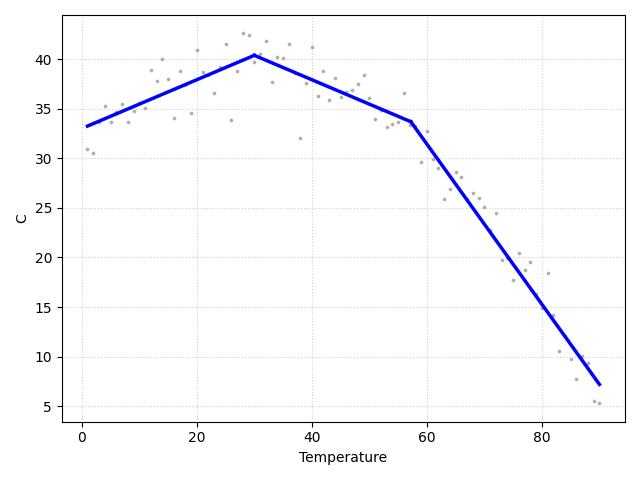
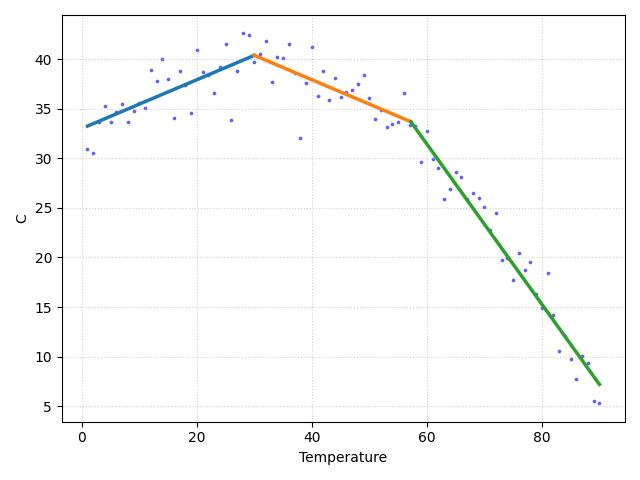
-

diff --git a/stat/stat_102_regchpt/bayes_usulu_parcali_regresyon.html b/stat/stat_102_regchpt/bayes_usulu_parcali_regresyon.html
@@ -592,7 +592,7 @@ y_{t}\sim\mathcal{N}(\hat{\mu}_{t},\hat{\sigma}_{t}^{2})
 \]</span></p>
 <p>ki <span class="math inline">\(y_t\)</span> formülü ile (1) içindeki
 <span class="math inline">\(P(D | \tau, \alpha, \beta,
-\sigma^2)\)</span> degerini hesaplamis oluyoruz, cunku <span
+\sigma^2)\)</span> değerini hesaplamış oluyoruz, çünkü <span
 class="math inline">\(y_t\)</span> verinin olurluğunu temsil ediyor.</p>
 <p>Devam edelim üstte görülen ağırlıklar <span
 class="math inline">\(w_1,w_2,w_3\)</span> birleşik formülün belli
@@ -734,14 +734,19 @@ class="math inline">\(\sigma_{M-1}(t) \approx 0 \Rightarrow w_M(t)
 class="math inline">\(\sigma_{M-1}(t) \approx 1 \Rightarrow w_M(t)
 \approx 1\)</span> (Tam Aktif)</p></li>
 </ul>
+<p>Farklar üzerinden tanımlı ağırlıkların nasıl işlediğini bir örnekte
+görelim. İki tane ayraç yeri tanımladık, <span
+class="math inline">\(\tau_1 = 10\)</span>, <span
+class="math inline">\(\tau_2 = 13\)</span>, ve şimdi <span
+class="math inline">\(w_2\)</span> ağırlığının (ki 10 ile 13 arasında
+aktif olacak şekilde tanımlı) nasıl davrandığına bakalım.</p>
 <div class="sourceCode" id="cb13"><pre
-class="sourceCode python"><code class="sourceCode python"><span id="cb13-1"><a href="#cb13-1" aria-hidden="true" tabindex="-1"></a>tau_1 <span class="op">=</span> <span class="fl">10.0</span></span>
-<span id="cb13-2"><a href="#cb13-2" aria-hidden="true" tabindex="-1"></a>tau_2 <span class="op">=</span> <span class="fl">13.0</span></span>
-<span id="cb13-3"><a href="#cb13-3" aria-hidden="true" tabindex="-1"></a><span class="cf">for</span> t <span class="kw">in</span> <span class="bu">range</span>(<span class="dv">20</span>):</span>
-<span id="cb13-4"><a href="#cb13-4" aria-hidden="true" tabindex="-1"></a>    sig1 <span class="op">=</span> sigmoid(t, tau_1)</span>
-<span id="cb13-5"><a href="#cb13-5" aria-hidden="true" tabindex="-1"></a>    sig2 <span class="op">=</span> sigmoid(t, tau_2)</span>
-<span id="cb13-6"><a href="#cb13-6" aria-hidden="true" tabindex="-1"></a>    w2 <span class="op">=</span> sig1 <span class="op">-</span> sig2</span>
-<span id="cb13-7"><a href="#cb13-7" aria-hidden="true" tabindex="-1"></a>    <span class="bu">print</span>(<span class="st">&quot;</span><span class="sc">%d</span><span class="st">, </span><span class="sc">%0.4f</span><span class="st">&quot;</span> <span class="op">%</span> (t, w2))</span></code></pre></div>
+class="sourceCode python"><code class="sourceCode python"><span id="cb13-1"><a href="#cb13-1" aria-hidden="true" tabindex="-1"></a>tau_1 <span class="op">=</span> <span class="fl">10.0</span><span class="op">;</span> tau_2 <span class="op">=</span> <span class="fl">13.0</span></span>
+<span id="cb13-2"><a href="#cb13-2" aria-hidden="true" tabindex="-1"></a><span class="cf">for</span> t <span class="kw">in</span> <span class="bu">range</span>(<span class="dv">20</span>):</span>
+<span id="cb13-3"><a href="#cb13-3" aria-hidden="true" tabindex="-1"></a>    sig1 <span class="op">=</span> sigmoid(t, tau_1)</span>
+<span id="cb13-4"><a href="#cb13-4" aria-hidden="true" tabindex="-1"></a>    sig2 <span class="op">=</span> sigmoid(t, tau_2)</span>
+<span id="cb13-5"><a href="#cb13-5" aria-hidden="true" tabindex="-1"></a>    w2 <span class="op">=</span> sig1 <span class="op">-</span> sig2</span>
+<span id="cb13-6"><a href="#cb13-6" aria-hidden="true" tabindex="-1"></a>    <span class="bu">print</span>(<span class="st">&quot;</span><span class="sc">%d</span><span class="st">, </span><span class="sc">%0.4f</span><span class="st">&quot;</span> <span class="op">%</span> (t, w2))</span></code></pre></div>
 <pre class="text"><code>0, 0.0000
 1, 0.0000
 2, 0.0000
@@ -762,6 +767,8 @@ class="sourceCode python"><code class="sourceCode python"><span id="cb13-1"><a h
 17, 0.0003
 18, 0.0000
 19, 0.0000</code></pre>
+<p>Artık parçalı Bayes usulü regresyonumuzu kodlayabiliriz. Kodlar
+<code>bayes_segmented.py</code> içinde bulunabilir.</p>
 <div class="sourceCode" id="cb15"><pre
 class="sourceCode python"><code class="sourceCode python"><span id="cb15-1"><a href="#cb15-1" aria-hidden="true" tabindex="-1"></a><span class="im">import</span> bayes_segmented </span>
 <span id="cb15-2"><a href="#cb15-2" aria-hidden="true" tabindex="-1"></a></span>
@@ -805,9 +812,9 @@ class="sourceCode python"><code class="sourceCode python"><span id="cb15-1"><a h
 <span id="cb15-40"><a href="#cb15-40" aria-hidden="true" tabindex="-1"></a>bic <span class="op">=</span> num_params <span class="op">*</span> np.log(N) <span class="op">-</span> <span class="dv">2</span> <span class="op">*</span> max_log_lik</span>
 <span id="cb15-41"><a href="#cb15-41" aria-hidden="true" tabindex="-1"></a></span>
 <span id="cb15-42"><a href="#cb15-42" aria-hidden="true" tabindex="-1"></a><span class="bu">print</span>(<span class="ss">f&quot;Maximized Log-Likelihood: </span><span class="sc">{</span>max_log_lik<span class="sc">:.2f}</span><span class="ss">&quot;</span>)</span>
-<span id="cb15-43"><a href="#cb15-43" aria-hidden="true" tabindex="-1"></a><span class="bu">print</span>(<span class="ss">f&quot;Total Parameters (k):     </span><span class="sc">{</span>num_params<span class="sc">}</span><span class="ss">  (Expanded to 4M - 1 due to intercepts)&quot;</span>)</span>
+<span id="cb15-43"><a href="#cb15-43" aria-hidden="true" tabindex="-1"></a><span class="bu">print</span>(<span class="ss">f&quot;Total Parameters (k):     </span><span class="sc">{</span>num_params<span class="sc">}</span><span class="ss"> &quot;</span>)</span>
 <span id="cb15-44"><a href="#cb15-44" aria-hidden="true" tabindex="-1"></a><span class="bu">print</span>(<span class="ss">f&quot;AIC Score:                </span><span class="sc">{</span>aic<span class="sc">:.2f}</span><span class="ss">&quot;</span>)</span>
-<span id="cb15-45"><a href="#cb15-45" aria-hidden="true" tabindex="-1"></a><span class="bu">print</span>(<span class="ss">f&quot;BIC Score:                </span><span class="sc">{</span>bic<span class="sc">:.2f}</span><span class="ss"> &lt;-- Best for identifying true block count&quot;</span>)</span></code></pre></div>
+<span id="cb15-45"><a href="#cb15-45" aria-hidden="true" tabindex="-1"></a><span class="bu">print</span>(<span class="ss">f&quot;BIC Score:                </span><span class="sc">{</span>bic<span class="sc">:.2f}</span><span class="ss"> &quot;</span>)</span></code></pre></div>
 <pre class="text"><code>Loaded 90 data points from cave.csv.
 Running intercept-aware Metropolis sampler for 3 blocks...
 Post-Burn-in Acceptance Rate: 30.96%
@@ -822,9 +829,15 @@ Block 3 -&gt; Alpha (Intercept): 79.923 | Beta (Slope): -0.808 | Sigma (Noise): 
 
 --- GOODNESS-OF-FIT METRICS ---
 Maximized Log-Likelihood: -185.67
-Total Parameters (k):     11  (Expanded to 4M - 1 due to intercepts)
+Total Parameters (k):     11  
 AIC Score:                393.33
-BIC Score:                420.83 &lt;-- Best for identifying true block count</code></pre>
+BIC Score:                420.83</code></pre>
+<p>Rapor edilen sonuçlar kabaca doğru gibi gözüküyor. Üç tane eğim
+değeri elde ettik, bunlardan ilkinin pozitif, ikincisinin negatif (ama
+fazla değil), ve üçüncüsünün çok daha negatif değerli olmasını
+bekliyorduk, sonuçlar da öyle oldu. Şimdi bu kesi ve eğim değerlerini
+alıp ham veri üzerinde grafiklersek nihai görsel doğrulamayı elde etmiş
+olacağız.</p>
 <div class="sourceCode" id="cb17"><pre
 class="sourceCode python"><code class="sourceCode python"><span id="cb17-1"><a href="#cb17-1" aria-hidden="true" tabindex="-1"></a>df <span class="op">=</span> pd.read_csv(fcave)</span>
 <span id="cb17-2"><a href="#cb17-2" aria-hidden="true" tabindex="-1"></a>alphas <span class="op">=</span> np.array([<span class="fl">33.007</span>, <span class="fl">47.769</span>, <span class="fl">79.923</span>])</span>
@@ -839,11 +852,11 @@ class="sourceCode python"><code class="sourceCode python"><span id="cb17-1"><a h
 <span id="cb17-11"><a href="#cb17-11" aria-hidden="true" tabindex="-1"></a>    np.linspace(bp2, max_temp, <span class="dv">100</span>),  <span class="co"># Block 3</span></span>
 <span id="cb17-12"><a href="#cb17-12" aria-hidden="true" tabindex="-1"></a>]</span>
 <span id="cb17-13"><a href="#cb17-13" aria-hidden="true" tabindex="-1"></a></span>
-<span id="cb17-14"><a href="#cb17-14" aria-hidden="true" tabindex="-1"></a>plt.scatter(df.Temp, df.C, s<span class="op">=</span><span class="dv">3</span>, color<span class="op">=</span><span class="st">&quot;gray&quot;</span>, alpha<span class="op">=</span><span class="fl">0.5</span>, label<span class="op">=</span><span class="st">&quot;Data&quot;</span>)</span>
+<span id="cb17-14"><a href="#cb17-14" aria-hidden="true" tabindex="-1"></a>plt.scatter(df.Temp, df.C, s<span class="op">=</span><span class="dv">3</span>, color<span class="op">=</span><span class="st">&quot;blue&quot;</span>, alpha<span class="op">=</span><span class="fl">0.5</span>, label<span class="op">=</span><span class="st">&quot;Data&quot;</span>)</span>
 <span id="cb17-15"><a href="#cb17-15" aria-hidden="true" tabindex="-1"></a></span>
 <span id="cb17-16"><a href="#cb17-16" aria-hidden="true" tabindex="-1"></a><span class="cf">for</span> i <span class="kw">in</span> <span class="bu">range</span>(<span class="dv">3</span>):</span>
 <span id="cb17-17"><a href="#cb17-17" aria-hidden="true" tabindex="-1"></a>    y_vals <span class="op">=</span> alphas[i] <span class="op">+</span> betas[i] <span class="op">*</span> x_ranges[i]</span>
-<span id="cb17-18"><a href="#cb17-18" aria-hidden="true" tabindex="-1"></a>    plt.plot(x_ranges[i],y_vals,label<span class="op">=</span><span class="ss">f&quot;Block </span><span class="sc">{</span>i<span class="op">+</span><span class="dv">1</span><span class="sc">}</span><span class="ss">&quot;</span>,linewidth<span class="op">=</span><span class="fl">2.5</span>,color<span class="op">=</span><span class="st">&#39;blue&#39;</span>)</span>
+<span id="cb17-18"><a href="#cb17-18" aria-hidden="true" tabindex="-1"></a>    plt.plot(x_ranges[i],y_vals,label<span class="op">=</span><span class="ss">f&quot;Block </span><span class="sc">{</span>i<span class="op">+</span><span class="dv">1</span><span class="sc">}</span><span class="ss">&quot;</span>,linewidth<span class="op">=</span><span class="fl">2.5</span>)</span>
 <span id="cb17-19"><a href="#cb17-19" aria-hidden="true" tabindex="-1"></a></span>
 <span id="cb17-20"><a href="#cb17-20" aria-hidden="true" tabindex="-1"></a>plt.xlabel(<span class="st">&quot;Temperature&quot;</span>)</span>
 <span id="cb17-21"><a href="#cb17-21" aria-hidden="true" tabindex="-1"></a>plt.ylabel(<span class="st">&quot;C&quot;</span>)</span>

diff --git a/stat/stat_102_regchpt/stat_102_regchpt.html b/stat/stat_102_regchpt/stat_102_regchpt.html
@@ -592,7 +592,7 @@ y_{t}\sim\mathcal{N}(\hat{\mu}_{t},\hat{\sigma}_{t}^{2})
 \]</span></p>
 <p>ki <span class="math inline">\(y_t\)</span> formülü ile (1) içindeki
 <span class="math inline">\(P(D | \tau, \alpha, \beta,
-\sigma^2)\)</span> degerini hesaplamis oluyoruz, cunku <span
+\sigma^2)\)</span> değerini hesaplamış oluyoruz, çünkü <span
 class="math inline">\(y_t\)</span> verinin olurluğunu temsil ediyor.</p>
 <p>Devam edelim üstte görülen ağırlıklar <span
 class="math inline">\(w_1,w_2,w_3\)</span> birleşik formülün belli
@@ -734,14 +734,19 @@ class="math inline">\(\sigma_{M-1}(t) \approx 0 \Rightarrow w_M(t)
 class="math inline">\(\sigma_{M-1}(t) \approx 1 \Rightarrow w_M(t)
 \approx 1\)</span> (Tam Aktif)</p></li>
 </ul>
+<p>Farklar üzerinden tanımlı ağırlıkların nasıl işlediğini bir örnekte
+görelim. İki tane ayraç yeri tanımladık, <span
+class="math inline">\(\tau_1 = 10\)</span>, <span
+class="math inline">\(\tau_2 = 13\)</span>, ve şimdi <span
+class="math inline">\(w_2\)</span> ağırlığının (ki 10 ile 13 arasında
+aktif olacak şekilde tanımlı) nasıl davrandığına bakalım.</p>
 <div class="sourceCode" id="cb13"><pre
-class="sourceCode python"><code class="sourceCode python"><span id="cb13-1"><a href="#cb13-1" aria-hidden="true" tabindex="-1"></a>tau_1 <span class="op">=</span> <span class="fl">10.0</span></span>
-<span id="cb13-2"><a href="#cb13-2" aria-hidden="true" tabindex="-1"></a>tau_2 <span class="op">=</span> <span class="fl">13.0</span></span>
-<span id="cb13-3"><a href="#cb13-3" aria-hidden="true" tabindex="-1"></a><span class="cf">for</span> t <span class="kw">in</span> <span class="bu">range</span>(<span class="dv">20</span>):</span>
-<span id="cb13-4"><a href="#cb13-4" aria-hidden="true" tabindex="-1"></a>    sig1 <span class="op">=</span> sigmoid(t, tau_1)</span>
-<span id="cb13-5"><a href="#cb13-5" aria-hidden="true" tabindex="-1"></a>    sig2 <span class="op">=</span> sigmoid(t, tau_2)</span>
-<span id="cb13-6"><a href="#cb13-6" aria-hidden="true" tabindex="-1"></a>    w2 <span class="op">=</span> sig1 <span class="op">-</span> sig2</span>
-<span id="cb13-7"><a href="#cb13-7" aria-hidden="true" tabindex="-1"></a>    <span class="bu">print</span>(<span class="st">&quot;</span><span class="sc">%d</span><span class="st">, </span><span class="sc">%0.4f</span><span class="st">&quot;</span> <span class="op">%</span> (t, w2))</span></code></pre></div>
+class="sourceCode python"><code class="sourceCode python"><span id="cb13-1"><a href="#cb13-1" aria-hidden="true" tabindex="-1"></a>tau_1 <span class="op">=</span> <span class="fl">10.0</span><span class="op">;</span> tau_2 <span class="op">=</span> <span class="fl">13.0</span></span>
+<span id="cb13-2"><a href="#cb13-2" aria-hidden="true" tabindex="-1"></a><span class="cf">for</span> t <span class="kw">in</span> <span class="bu">range</span>(<span class="dv">20</span>):</span>
+<span id="cb13-3"><a href="#cb13-3" aria-hidden="true" tabindex="-1"></a>    sig1 <span class="op">=</span> sigmoid(t, tau_1)</span>
+<span id="cb13-4"><a href="#cb13-4" aria-hidden="true" tabindex="-1"></a>    sig2 <span class="op">=</span> sigmoid(t, tau_2)</span>
+<span id="cb13-5"><a href="#cb13-5" aria-hidden="true" tabindex="-1"></a>    w2 <span class="op">=</span> sig1 <span class="op">-</span> sig2</span>
+<span id="cb13-6"><a href="#cb13-6" aria-hidden="true" tabindex="-1"></a>    <span class="bu">print</span>(<span class="st">&quot;</span><span class="sc">%d</span><span class="st">, </span><span class="sc">%0.4f</span><span class="st">&quot;</span> <span class="op">%</span> (t, w2))</span></code></pre></div>
 <pre class="text"><code>0, 0.0000
 1, 0.0000
 2, 0.0000
@@ -762,6 +767,8 @@ class="sourceCode python"><code class="sourceCode python"><span id="cb13-1"><a h
 17, 0.0003
 18, 0.0000
 19, 0.0000</code></pre>
+<p>Artık parçalı Bayes usulü regresyonumuzu kodlayabiliriz. Kodlar
+<code>bayes_segmented.py</code> içinde bulunabilir.</p>
 <div class="sourceCode" id="cb15"><pre
 class="sourceCode python"><code class="sourceCode python"><span id="cb15-1"><a href="#cb15-1" aria-hidden="true" tabindex="-1"></a><span class="im">import</span> bayes_segmented </span>
 <span id="cb15-2"><a href="#cb15-2" aria-hidden="true" tabindex="-1"></a></span>
@@ -805,9 +812,9 @@ class="sourceCode python"><code class="sourceCode python"><span id="cb15-1"><a h
 <span id="cb15-40"><a href="#cb15-40" aria-hidden="true" tabindex="-1"></a>bic <span class="op">=</span> num_params <span class="op">*</span> np.log(N) <span class="op">-</span> <span class="dv">2</span> <span class="op">*</span> max_log_lik</span>
 <span id="cb15-41"><a href="#cb15-41" aria-hidden="true" tabindex="-1"></a></span>
 <span id="cb15-42"><a href="#cb15-42" aria-hidden="true" tabindex="-1"></a><span class="bu">print</span>(<span class="ss">f&quot;Maximized Log-Likelihood: </span><span class="sc">{</span>max_log_lik<span class="sc">:.2f}</span><span class="ss">&quot;</span>)</span>
-<span id="cb15-43"><a href="#cb15-43" aria-hidden="true" tabindex="-1"></a><span class="bu">print</span>(<span class="ss">f&quot;Total Parameters (k):     </span><span class="sc">{</span>num_params<span class="sc">}</span><span class="ss">  (Expanded to 4M - 1 due to intercepts)&quot;</span>)</span>
+<span id="cb15-43"><a href="#cb15-43" aria-hidden="true" tabindex="-1"></a><span class="bu">print</span>(<span class="ss">f&quot;Total Parameters (k):     </span><span class="sc">{</span>num_params<span class="sc">}</span><span class="ss"> &quot;</span>)</span>
 <span id="cb15-44"><a href="#cb15-44" aria-hidden="true" tabindex="-1"></a><span class="bu">print</span>(<span class="ss">f&quot;AIC Score:                </span><span class="sc">{</span>aic<span class="sc">:.2f}</span><span class="ss">&quot;</span>)</span>
-<span id="cb15-45"><a href="#cb15-45" aria-hidden="true" tabindex="-1"></a><span class="bu">print</span>(<span class="ss">f&quot;BIC Score:                </span><span class="sc">{</span>bic<span class="sc">:.2f}</span><span class="ss"> &lt;-- Best for identifying true block count&quot;</span>)</span></code></pre></div>
+<span id="cb15-45"><a href="#cb15-45" aria-hidden="true" tabindex="-1"></a><span class="bu">print</span>(<span class="ss">f&quot;BIC Score:                </span><span class="sc">{</span>bic<span class="sc">:.2f}</span><span class="ss"> &quot;</span>)</span></code></pre></div>
 <pre class="text"><code>Loaded 90 data points from cave.csv.
 Running intercept-aware Metropolis sampler for 3 blocks...
 Post-Burn-in Acceptance Rate: 30.96%
@@ -822,9 +829,15 @@ Block 3 -&gt; Alpha (Intercept): 79.923 | Beta (Slope): -0.808 | Sigma (Noise): 
 
 --- GOODNESS-OF-FIT METRICS ---
 Maximized Log-Likelihood: -185.67
-Total Parameters (k):     11  (Expanded to 4M - 1 due to intercepts)
+Total Parameters (k):     11  
 AIC Score:                393.33
-BIC Score:                420.83 &lt;-- Best for identifying true block count</code></pre>
+BIC Score:                420.83</code></pre>
+<p>Rapor edilen sonuçlar kabaca doğru gibi gözüküyor. Üç tane eğim
+değeri elde ettik, bunlardan ilkinin pozitif, ikincisinin negatif (ama
+fazla değil), ve üçüncüsünün çok daha negatif değerli olmasını
+bekliyorduk, sonuçlar da öyle oldu. Şimdi bu kesi ve eğim değerlerini
+alıp ham veri üzerinde grafiklersek nihai görsel doğrulamayı elde etmiş
+olacağız.</p>
 <div class="sourceCode" id="cb17"><pre
 class="sourceCode python"><code class="sourceCode python"><span id="cb17-1"><a href="#cb17-1" aria-hidden="true" tabindex="-1"></a>df <span class="op">=</span> pd.read_csv(fcave)</span>
 <span id="cb17-2"><a href="#cb17-2" aria-hidden="true" tabindex="-1"></a>alphas <span class="op">=</span> np.array([<span class="fl">33.007</span>, <span class="fl">47.769</span>, <span class="fl">79.923</span>])</span>
@@ -839,11 +852,11 @@ class="sourceCode python"><code class="sourceCode python"><span id="cb17-1"><a h
 <span id="cb17-11"><a href="#cb17-11" aria-hidden="true" tabindex="-1"></a>    np.linspace(bp2, max_temp, <span class="dv">100</span>),  <span class="co"># Block 3</span></span>
 <span id="cb17-12"><a href="#cb17-12" aria-hidden="true" tabindex="-1"></a>]</span>
 <span id="cb17-13"><a href="#cb17-13" aria-hidden="true" tabindex="-1"></a></span>
-<span id="cb17-14"><a href="#cb17-14" aria-hidden="true" tabindex="-1"></a>plt.scatter(df.Temp, df.C, s<span class="op">=</span><span class="dv">3</span>, color<span class="op">=</span><span class="st">&quot;gray&quot;</span>, alpha<span class="op">=</span><span class="fl">0.5</span>, label<span class="op">=</span><span class="st">&quot;Data&quot;</span>)</span>
+<span id="cb17-14"><a href="#cb17-14" aria-hidden="true" tabindex="-1"></a>plt.scatter(df.Temp, df.C, s<span class="op">=</span><span class="dv">3</span>, color<span class="op">=</span><span class="st">&quot;blue&quot;</span>, alpha<span class="op">=</span><span class="fl">0.5</span>, label<span class="op">=</span><span class="st">&quot;Data&quot;</span>)</span>
 <span id="cb17-15"><a href="#cb17-15" aria-hidden="true" tabindex="-1"></a></span>
 <span id="cb17-16"><a href="#cb17-16" aria-hidden="true" tabindex="-1"></a><span class="cf">for</span> i <span class="kw">in</span> <span class="bu">range</span>(<span class="dv">3</span>):</span>
 <span id="cb17-17"><a href="#cb17-17" aria-hidden="true" tabindex="-1"></a>    y_vals <span class="op">=</span> alphas[i] <span class="op">+</span> betas[i] <span class="op">*</span> x_ranges[i]</span>
-<span id="cb17-18"><a href="#cb17-18" aria-hidden="true" tabindex="-1"></a>    plt.plot(x_ranges[i],y_vals,label<span class="op">=</span><span class="ss">f&quot;Block </span><span class="sc">{</span>i<span class="op">+</span><span class="dv">1</span><span class="sc">}</span><span class="ss">&quot;</span>,linewidth<span class="op">=</span><span class="fl">2.5</span>,color<span class="op">=</span><span class="st">&#39;blue&#39;</span>)</span>
+<span id="cb17-18"><a href="#cb17-18" aria-hidden="true" tabindex="-1"></a>    plt.plot(x_ranges[i],y_vals,label<span class="op">=</span><span class="ss">f&quot;Block </span><span class="sc">{</span>i<span class="op">+</span><span class="dv">1</span><span class="sc">}</span><span class="ss">&quot;</span>,linewidth<span class="op">=</span><span class="fl">2.5</span>)</span>
 <span id="cb17-19"><a href="#cb17-19" aria-hidden="true" tabindex="-1"></a></span>
 <span id="cb17-20"><a href="#cb17-20" aria-hidden="true" tabindex="-1"></a>plt.xlabel(<span class="st">&quot;Temperature&quot;</span>)</span>
 <span id="cb17-21"><a href="#cb17-21" aria-hidden="true" tabindex="-1"></a>plt.ylabel(<span class="st">&quot;C&quot;</span>)</span>

diff --git a/sk/index.html b/sk/index.html
@@ -39,6 +39,8 @@
 
 <h2>En Son</h2>
 
+<p>3/7 - <a href="">Lineer Regresyon - Ekler - Korelasyon</a></p>
+
 <p>26/6 - <a href="https://burakbayramli.github.io/dersblog/compscieng/compscieng_bpp43lbm/orgu__lattice__boltzmann_metodu.html">Örgü (Lattice) Boltzmann Metodu</a></p>
 
 <p>23/6 - <a href="https://burakbayramli.github.io/dersblog/tser/tser_115_bop/uluslararasi_finans_dengeler.html">Uluslararası Finans - Ekler</a></p>
@@ -46,8 +48,6 @@
 <p>22/5 - <a href="https://burakbayramli.github.io/dersblog/phy/phy_030_flgas2/sivi_ve_gaz_mekanigi__2.html">Sıvı ve Gaz Mekaniği - 2</a></p>
 
 <p>4/5 - <a href="https://burakbayramli.github.io/dersblog/stat/stat_230_opt/optimizasyon_simulasyon.html">Optimizasyon, Simulasyon</a></p>
-
-<p>24/4 - <a href="https://burakbayramli.github.io/dersblog/stat/stat_095_mcint/monte_carlo_entegraller_sirali_monte_carlo.html">Monte Carlo, Entegraller, Sıralı Monte Carlo</a></p>
 
 <h2>Konular, Referans</h2>
 

diff --git a/sk/index.md b/sk/index.md
@@ -3,6 +3,8 @@
 
 ## En Son
 
+3/7 - [Lineer Regresyon - Ekler - Korelasyon]()
+
 26/6 - [Örgü (Lattice) Boltzmann Metodu](https://burakbayramli.github.io/dersblog/compscieng/compscieng_bpp43lbm/orgu__lattice__boltzmann_metodu.html)
 
 23/6 - [Uluslararası Finans - Ekler](https://burakbayramli.github.io/dersblog/tser/tser_115_bop/uluslararasi_finans_dengeler.html)
@@ -10,8 +12,6 @@
 22/5 - [Sıvı ve Gaz Mekaniği - 2](https://burakbayramli.github.io/dersblog/phy/phy_030_flgas2/sivi_ve_gaz_mekanigi__2.html)
 
 4/5 - [Optimizasyon, Simulasyon](https://burakbayramli.github.io/dersblog/stat/stat_230_opt/optimizasyon_simulasyon.html)
-
-24/4 - [Monte Carlo, Entegraller, Sıralı Monte Carlo](https://burakbayramli.github.io/dersblog/stat/stat_095_mcint/monte_carlo_entegraller_sirali_monte_carlo.html)
 
 ## Konular, Referans
 